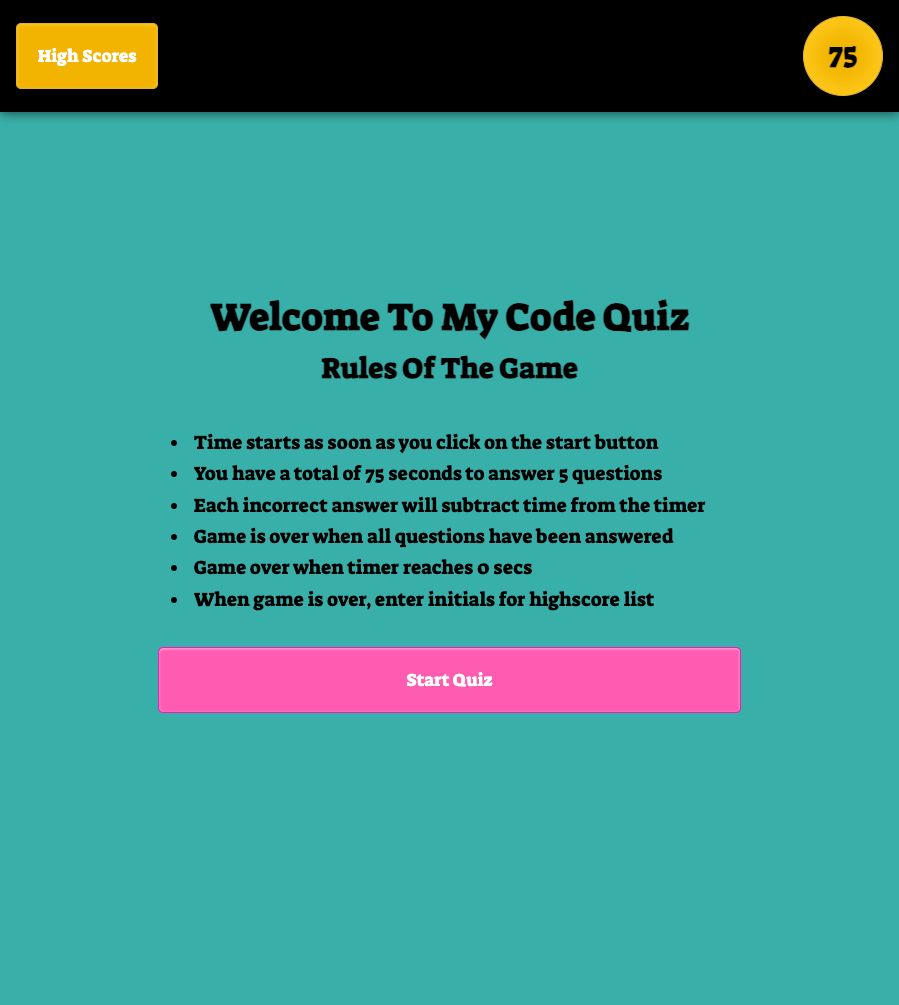
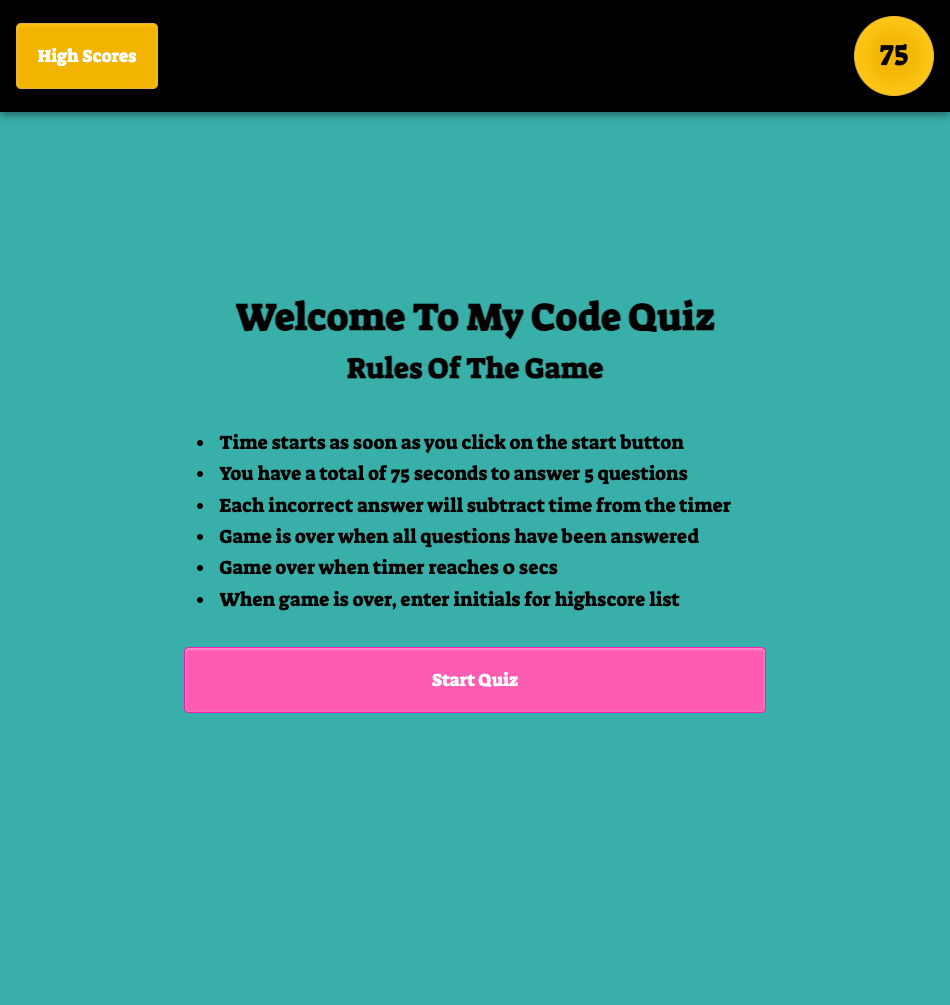
added README.md + image of app + linked normalize.css

diff --git a/index.html b/index.html
@@ -5,7 +5,8 @@
     <meta http-equiv="X-UA-Compatible" content="IE=edge" />
     <meta name="viewport" content="width=device-width, initial-scale=1.0" />
     <link href="https://fonts.googleapis.com/css2?family=Suez+One&display=swap" rel="stylesheet" />
-    <link rel="stylesheet" href="./assets/css/style.css" />
+    <link rel="stylesheet" type="text/css" href="./vendors/css/normalize.css" />
+    <link rel="stylesheet" type="text/css" href="./assets/css/style.css" />
     <title>Code Quiz</title>
   </head>
   <body>

diff --git a/README.md b/README.md
@@ -1,1 +1,160 @@
 # miniature-telegram
+
+Assignment: Code Quiz
+
+Developer: Mehdi Mehrabani
+
+For this week, we were tasked with building a timed coding quiz app with multiple-choice questions. In the week prior, our focus was on Web APIs and as a result, learning about this topic became extremely important in the success of building this app.
+
+To be honest, I had no idea what Web API’s were until this assignment. The term API seems to be used all the time, and majority of people will just nod their heads when asked if they know what they are. Unless you are utilizing the topic for your own personal projects, you don’t have a clue. For this reason, I had to brush up on the learning done during class before attempting this assignment.
+
+API stands for Application Programming Interface. To understand the purpose of APIs see the below example from MDN Web Docs.
+
+“>” think about the electricity supply in your house, apartment, or other dwellings. If you want to use an appliance in your house, you plug it into a plug socket and it works. You don't try to wire it directly into the power supply — to do so would be really inefficient and, if you are not an electrician, difficult and dangerous to attempt.
+
+There are two types of Web APIs: Browser APIs and Third-Party APIs. For this assignment, we used browser API’s in combination with Javascript to create this app.
+
+If you want more information on the basics of API, check out this link [Introduction to web APIs](https://developer.mozilla.org/en-US/docs/Learn/JavaScript/Client-side_web_APIs/Introduction)
+
+In addition to understanding the basics of Web APIs, I wanted to know more on the qualities of a good app. From my research, below are the top 5 qualities after you’ve come up with your world changing idea.
+
+1. The Design – The app needs to look good
+2. The User Interface – Interaction with the app should be easy
+3. Cross Platform Functionality – Should be compatible with different operating systems
+4. Speed – No one likes slow loading times.
+5. Offline Usage – Not everyone has unlimited data.
+
+If you want a good guide to building an app, check out this link [The beginner’s advanced guide to building an app](https://uxdesign.cc/break-it-down-or-the-making-of-an-app-part-i-b2f260c2dffb)
+
+## ASSIGNMENT SUMMARY
+
+No starter code was provided and as a result, we were required to build everything from scratch. The requirements to completing this assignment were the following.
+
+Upon loading the code quiz app:
+
+1. When start button is clicked, user is presented with a question
+2. For each answer:
+   a. If correct, user is presented with another question.
+   b. If incorrect, time is subtracted from the clock
+3. The game is over when:
+   a. User answers all questions.
+   b. Time reaches 0.
+4. Once game is over, user can submit initials for high score list submission.
+
+## Structure + Process of Writing Code
+
+### Resources Used To Complete Assignment
+
+1. Bootcamp
+2. Udemy
+3. Google & GoogleDev Tools
+4. Youtube
+
+### Steps Taken To Write Code
+
+1. Create file structure
+2. Draw a flow chart
+3. Write pseudo-code
+4. Design App
+5. Begin writing code
+6. Test
+7. Debug
+8. Research efficient ways of solving issues
+9. Test
+10. Debug
+11. Submit
+
+### File Structure
+
+When git clone, you will find the following:
+
+1. File: Index.html
+2. File: README.md
+3. Folder: Assets
+   a) Folder: css
+    style.css
+   b) Folder: js
+    script.js
+    questions.js: created a separate js file for the quiz questions as it made for writing the main code easier.
+4. Folder: Vendors
+   a) Folder: css
+    normalize.css
+
+### Design App
+
+I could have used the design presented in the homework assets folder, but I love applying my own flare, so I took time to make the app look fun. I will just assume, when you’re taking a quiz, you’re preparing for an exam, and as such, anything that can reduce stress and increase usability is a plus.
+
+1. For the font, I used google fonts family “Suez One” styling. It gave it a more playful feel.
+2. For the color scheme, I wanted to make the game more engaging so I used a mixture of orange, teal and pink. See image of the final app at the end of this readme.doc
+3. For the buttons, I applied a border radius to make them more rounded and applied a hover effect for when the user places cursor directly on the button.
+4. For the clock / timer, instead of just writing “Time Remaining”, I used a circle with number ticking down once quiz starts.
+
+I probably spent more time on the design than I should have, but at the end, I think it added to the fun factor.
+
+### Writing Code
+
+[A] HTML Structure
+
+1. Header
+   a. `<header>`
+   b. `<nav>`
+   i. `<button>` - For the highscore click events in js
+   ii. `<p>` & `<span>` - For the clock/timer
+2. Main Body Section
+   a. `<section>` - 5 sections used to separate
+   i. Intro
+   ii. Questions
+   iii. Initials
+   iv. Highscores
+   v. Game Over
+
+[B] Javascript Structure
+
+- The amount of space the questions were taking when writing the main code made for debugging issues a little bit harder. I realized I could just simply create a new .js file to house the questions, and just refer to it. By doing this, I freed myself of important space when reading the code.
+
+1. Basic Overview
+
+- Use of strict mode – While going through some udemy courses. From what I understand, javascript allows for simple errors to be bypassed, and by invoking the strict mode, you can catch these simple errors and debug on the spot. As a beginner, I want to see all errors just so I can try to update on the spot.
+
+- var for `document.querySelector()` - To make referring to html elements a little easier.
+
+- `.classList.add('hidden')` & .classList.remove('hidden') – For changing between the html sections, I created a css styling for `.hidden` to `display: none`.
+
+2. Logic of Code
+
+- Start Quiz Button + Click Event
+  I. Added a click event for the Start Quiz button. This click event also housed the function to:
+   start the question loading process by calling on the setQuestion() function.
+   Start the countdown by calling on countdown() which reduces the initial 75secs clock by 1 second.
+   Load highscores from local storage by calling on `init()`. The purpose of this `init()` is to load the highscores since my “Go Back” button utilizes the javascript `location.reload()`.
+
+- The Timer / Clock functionality is a function called countdown(). It’s simple in that if clock is greater than 0, reduce time by 1 second, else, stop the time and show the game over section.
+
+- Quiz Data Pull Based On Click Event
+  I. Quiz Data Summary – check what the `var qCount` is currently at and pull the data from the quizData array.
+  II. Changing of Questions – created a click event under a for loop for the changing of the qcount and and processing the wrong or correct functionality. Given time limitations, I couldn’t improve on this for loop and the last wrong or correct does not display. Had to accept and move on for now, however, I will be returning to this once I have a little more time.
+
+- Highscores + Local Storage Section
+  I. Bootcamp todo activity was extremely helpful here. In summary, after user submits score the scores and the initials are pushed into an array called highscoresArray[].
+  II. This section took the most amount of time since the highscoresArray[] would need to be sorted. I was able to overcome this issue by:
+   Pushing user submitted initials + score [time left] Into the highscoresArray[].
+   Sort the values based on the score.
+   Using the turnery operator when appending to the li list.
+
+### Key Learning Points
+
+[A] GoogleDev BreakPoints For Logic Check – I think the biggest learning was done when utilizing the breakpoints event watcher. There were many instances where I could not understand what the issue was and had to just go step by step over each function to check the values. A great example was for the sorting of the high scores and converting the li creations from appearing as objects on the screen to the values the user submitted.
+
+[B] Reload Function & localStorage.clear() – Each assignment I come across a simple way of doing something that might at first feel like it requires more work. For this assignment, the two I found were the reload page function for the “Go Back” button and the localStorage.clear() to clear the high scores list.
+
+### Issues With Code To Fix
+
+Given the amount of time for a beginner to learn how to code something like this, I ran out of time when trying to debug the following two issues. Once I have a little more free time, I’ll be working to fix.
+
+[A] The last showWrongCorrect function is not working. I know it has to do with the way I built the logic for the change of questions, but thought I should note.
+
+[B] When click at high speed and the answers are sequentially wrong, there are instances where user score will be negative. This is a bug that I’ll need to work on.
+
+# Image Of Final Assignment
+
+![alt text](./assets/img/miniature-telegram.png)
